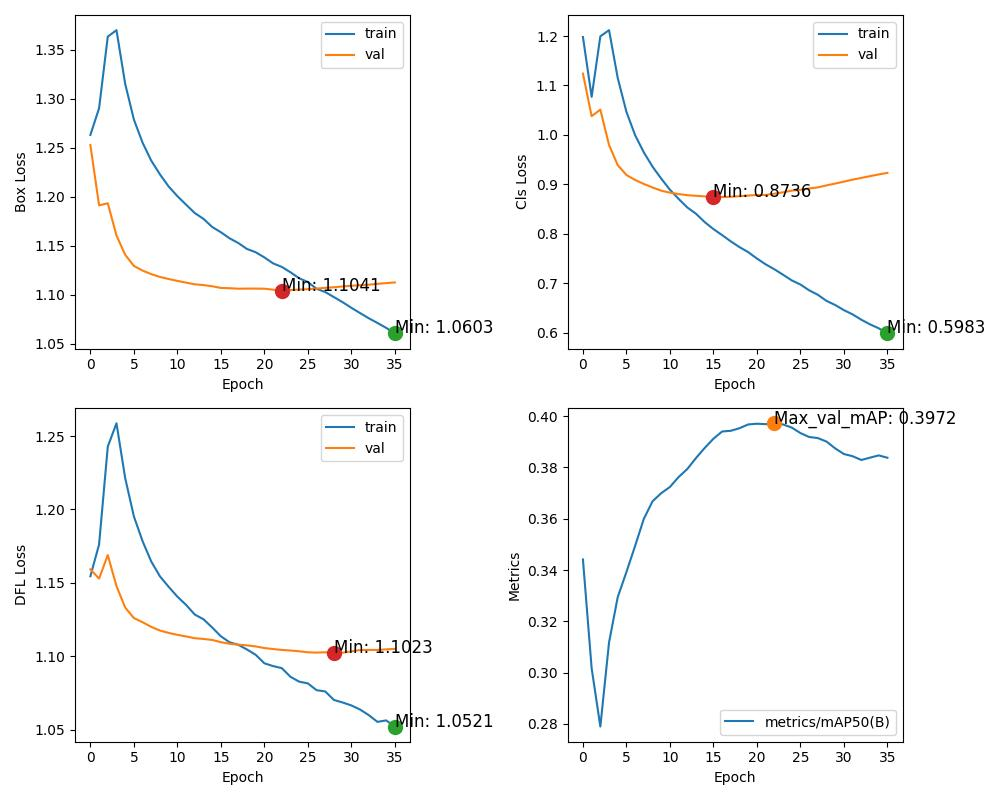
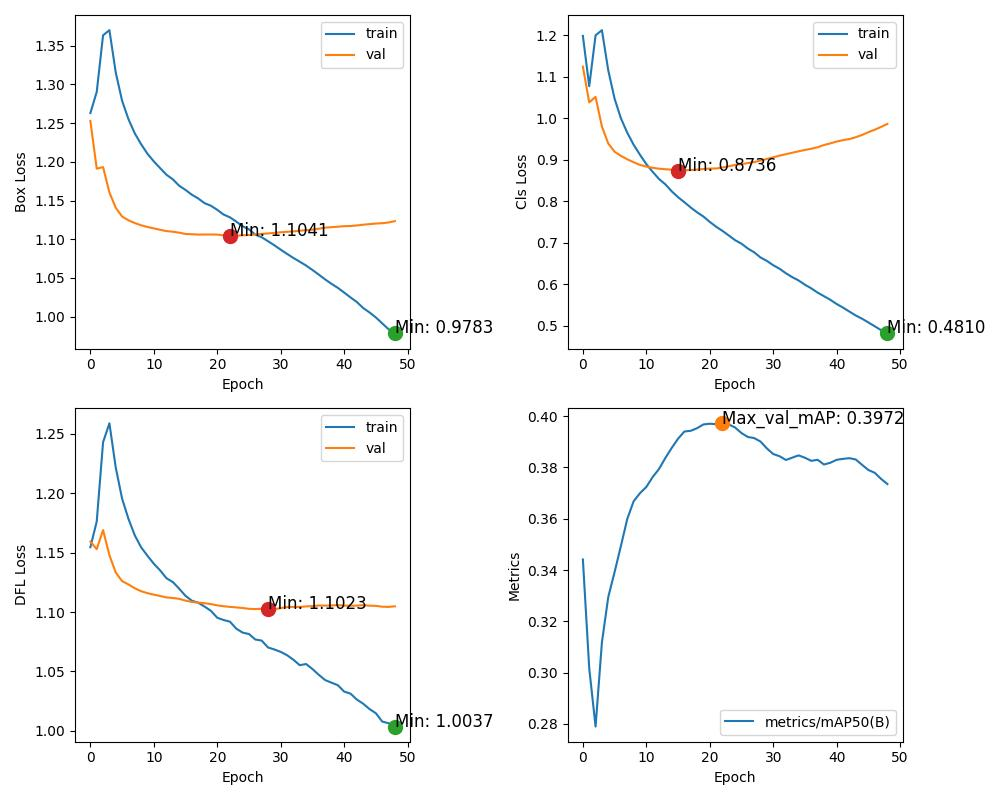
readme update

diff --git a/utils/T2_data_preprocessing.py b/utils/T2_data_preprocessing.py
@@ -65,16 +65,15 @@ if __name__ == '__main__':
     gt_file = '/datasets/roadpp/road_waymo_trainval_v1.0.json'
     incomplete_labels = 0
 
-    # remove_all_local(img_folder)
-    # remove_all_csv(img_folder)
+    remove_all_local(img_folder)
+    remove_all_csv(img_folder)
 
     print('Loading json file...')
     with open(gt_file, 'r') as f:
         gt_dict = json.load(f)
     
 
-    # tube_id_dict = {}
-    for video_name, video in gt_dict['db'].items():
+    for video_name, video in sorted(gt_dict['db'].items()):
         video_folder = os.path.join(img_folder, video_name)
 
         for frame_id, data in video['frames'].items():
@@ -86,31 +85,31 @@ if __name__ == '__main__':
 
                 for box_id, annos in data['annos'].items():
                     try:
-                        agent_id, action_id, loc_id, tube_uid = annos['agent_ids'][0], annos['action_ids'][0], annos['loc_ids'][0], annos['tube_uid'][0]
-                        # tube_id_dict[tube_uid] = True
+                        agent_id, action_id, loc_id, tube_uid = annos['agent_ids'][0], annos['action_ids'][0], annos['loc_ids'][0], annos['tube_uid']
                         local_img_path = os.path.join(video_folder, 'local', str(agent_id) + '_' + agent_labels[agent_id], tube_uid)
 
-                        if frame_id == '4':
-                            # frame_img = cv2.imread('bug.jpg')
-                            print_bug(frame_img, annos)
+                        # if frame_id == '4':
+                        #     # frame_img = cv2.imread('bug.jpg')
+                        #     print_bug(frame_img, annos)
 
                         if not os.path.exists(local_img_path):
                             os.makedirs(local_img_path)
 
                         x1, y1, x2, y2 = annos['box']
-                        x1_pixel, y1_pixel, x2_pixel, y2_pixel = int(x1 * img_width), int(y1 * img_height), int(x2 * img_width), int(y2 * img_height)
+                        x1_pixel, y1_pixel, x2_pixel, y2_pixel = round(x1 * img_width), round(y1 * img_height), round(x2 * img_width), round(y2 * img_height)
                         local_img = frame_img[y1_pixel : y2_pixel, x1_pixel : x2_pixel]
 
-                        write_img_path = os.path.join(local_img_path, str(frame_id).zfill(5) + '.jpg')
-                        cv2.imwrite(write_img_path, local_img)
-                        print('writeing local img: ', write_img_path)
+                        if local_img.size != 0:
+                            write_img_path = os.path.join(local_img_path, str(frame_id).zfill(5) + '.jpg')
+                            cv2.imwrite(write_img_path, local_img)
+                            print('writeing local img: ', write_img_path)
 
-                        # csv field: frame_id, x1, y1, x2, y2, agent_id, action_id, loc_id, tube_id
-                        write_csv_path = os.path.join(local_img_path, 'label.csv')
-                        with open(write_csv_path, 'a', newline='') as f:
-                            writer = csv.writer(f)
-                            writer.writerow([str(frame_id).zfill(5), x1, y1, x2, y2, agent_id, action_id, loc_id, tube_uid])
-                            print('writeing local csv: ', write_csv_path)
+                            # csv field: frame_id, x1, y1, x2, y2, agent_id, action_id, loc_id, tube_id
+                            write_csv_path = os.path.join(local_img_path, 'label.csv')
+                            with open(write_csv_path, 'a', newline='') as f:
+                                writer = csv.writer(f)
+                                writer.writerow([str(frame_id).zfill(5), x1, y1, x2, y2, agent_id, action_id, loc_id, tube_uid])
+                                print('writeing local csv: ', write_csv_path)
 
                     except IndexError as e:
                         incomplete_labels += 1

diff --git a/utils/test_for_tube_id.py b/utils/test_for_tube_id.py
@@ -1,0 +1,24 @@
+import os
+import cv2
+import csv
+import json
+import glob
+import random
+import shutil
+
+if __name__ == '__main__':
+    # create local img(cut bbox img in every frame)
+    agent_labels = ['Ped', 'Car', 'Cyc', 'Mobike', 'SmalVeh', 'MedVeh', 'LarVeh', 'Bus', 'EmVeh', 'TL']
+    img_folder = '/datasets/roadpp/Track2'
+    gt_file = '/datasets/roadpp/road_waymo_trainval_v1.0.json'
+    incomplete_labels = 0
+
+
+    print('Loading json file...')
+    with open(gt_file, 'r') as f:
+        gt_dict = json.load(f)
+
+    annos = gt_dict['db']['train_00407']['agent_tubes']['annos']
+    gt_dict['db']['train_00407']['agent_tubes']['283ae350-0e37-460c-9d1a-d5d62a277a61-001']
+    gt_dict['db']['train_00407']['frames']['1']['annos']['b_1']
+    print(annos)

diff --git a/utils/plot_curve.py b/utils/plot_curve.py
@@ -21,8 +21,8 @@ def draw_loss(epochs, train, val, xlabel, ylabel):
 
 
 if __name__ == '__main__':
-    csv_path = '/home/Ricky/0_Project/ROADpp_challenge_ICCV2023/runs/detect/yolov8l_T1_1280_batch_8_/results.csv'
-    out_file_name = 'curve_1280_1280.jpg'
+    csv_path = '/home/Ricky/0_Project/ROADpp_challenge_ICCV2023/runs/detect/yolov8l_T1_1920_batch_26_/results.csv'
+    out_file_name = 'curve_1920_1280.jpg'
     data = pd.read_csv(csv_path).rename(columns=lambda x: x.strip())
 
     epochs = data['epoch']

diff --git a/Track2/README.md b/Track2/README.md
@@ -1,0 +1,33 @@
+# Track2
+
+## Track2 Dataset File Tree
+```
+Track2
+├── train_00000 (video_ID)
+│   ├── global
+│   │   ├── 00001.jpg (Frame_ID)
+│   │   ├── 00002.jpg
+│   │   ├── 00003.jpg
+│   │   ├── ...
+│   └── local
+│       ├── 0_Ped (Agent_ID)
+│       │   ├── 0611ea50-f652-406d-942a-9ec7e3e90546 (Tube_uID # Track ID)
+│       │   │   ├── 00001.jpg
+│       │   │   ├── 00002.jpg
+│       │   │   ├── ...
+│       │   │   ├── label.csv
+│       │   ├── 08b1e19e-b912-4963-a7bb-55e138bbc25e
+│       │   ├── ...
+│       ├── 1_Car
+│       │   ├── 12ba81ee-9cee-4134-94ca-df9ed01e0ff1
+│       │   ├── 1fa40b66-1897-4d0b-93e9-a9445372962b
+│       │   ├── ...
+├── train_00001
+...
+```
+
+
+## ToDo
+
+- [ ] Dataloader
+- [ ] Implement TTnet like structure

diff --git a/README.md b/README.md
@@ -1,4 +1,5 @@
 # ROADpp_challenge_ICCV2023
+- Data Preprocessing is located in the 'utils' folder.
 
 ## T1_YOLOv8_640*640_demo
 ![demo](T1_demo_epoch_20.gif)
@@ -15,5 +16,6 @@
 
 - [x] Convert Datasets to YOLO format()
 - [x] Train YOLOv8 on Track1(train_YOLOv8.py)
-- [ ] Train YOLOv8 on Track2
-- [ ] Implement linear interpolation bbox function 
+- [ ] Implement "majority class mask" to solve label imbalence
+- [ ] Track2 TTnet
+- [ ] Implement linear interpolation bbox function in Track1
